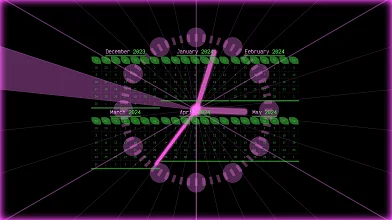
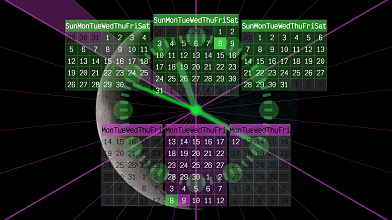
rewrite solar-lunar calendar + add few demos

diff --git a/src/assets/data.js b/src/assets/data.js
@@ -361,6 +361,11 @@ export default {
       title: "Responsive layout - BEM, React",
     },
     {
+      link: "https://vadym4che.github.io/che-org/",
+      image: "./43.webp",
+      title: "Vue 2 light landing page + feedback form",
+    },
+    {
       link: 'https://vadym4che.github.io/layout_miami/',
       image: './11.webp',
       title: 'MyBike landing - BEM, SCSS, JS'
@@ -406,14 +411,19 @@ export default {
       title: `Sticky header example React`
     },
     {
+      link: 'https://vadym4che.github.io/gpt-cuisine-symphony/',
+      image: './44.webp',
+      title: `GPT technological recipe + Funny article`
+    },
+    {
       link: 'https://vadym4che.github.io/layout_calendar/',
       image: './38.webp',
       title: `Customizable calendar SCSS layout`
     },
     {
-      link: 'https://vadym4che.github.io/interactive-web-calendar/',
+      link: 'https://vadym4che.github.io/e-time/',
       image: './45.webp',
-      title: `Calendar for 6 months + lunar phases`
+      title: `E-Time | Calendar Solar dates + Lunar phases`
     },
     {
       link: 'https://vadym4che.github.io/react_movies-list-add-form/',
